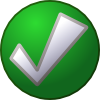
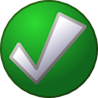
updates images for check/x

diff --git a/resources/public/css/style.css b/resources/public/css/style.css
@@ -110,16 +110,16 @@ body {
 
 .check-mark {
   display: inline-block;
-  width: 100px;
-  height: 100px;
+  width: 98px;
+  height: 98px;
   margin: 10px;
   background: url(../img/check-mark.png);
 }
 
 .x-mark {
   display: inline-block;
-  width: 100px;
-  height: 100px;
+  width: 98px;
+  height: 98px;
   margin: 10px;
   background: url(../img/x-mark.png);
 }
